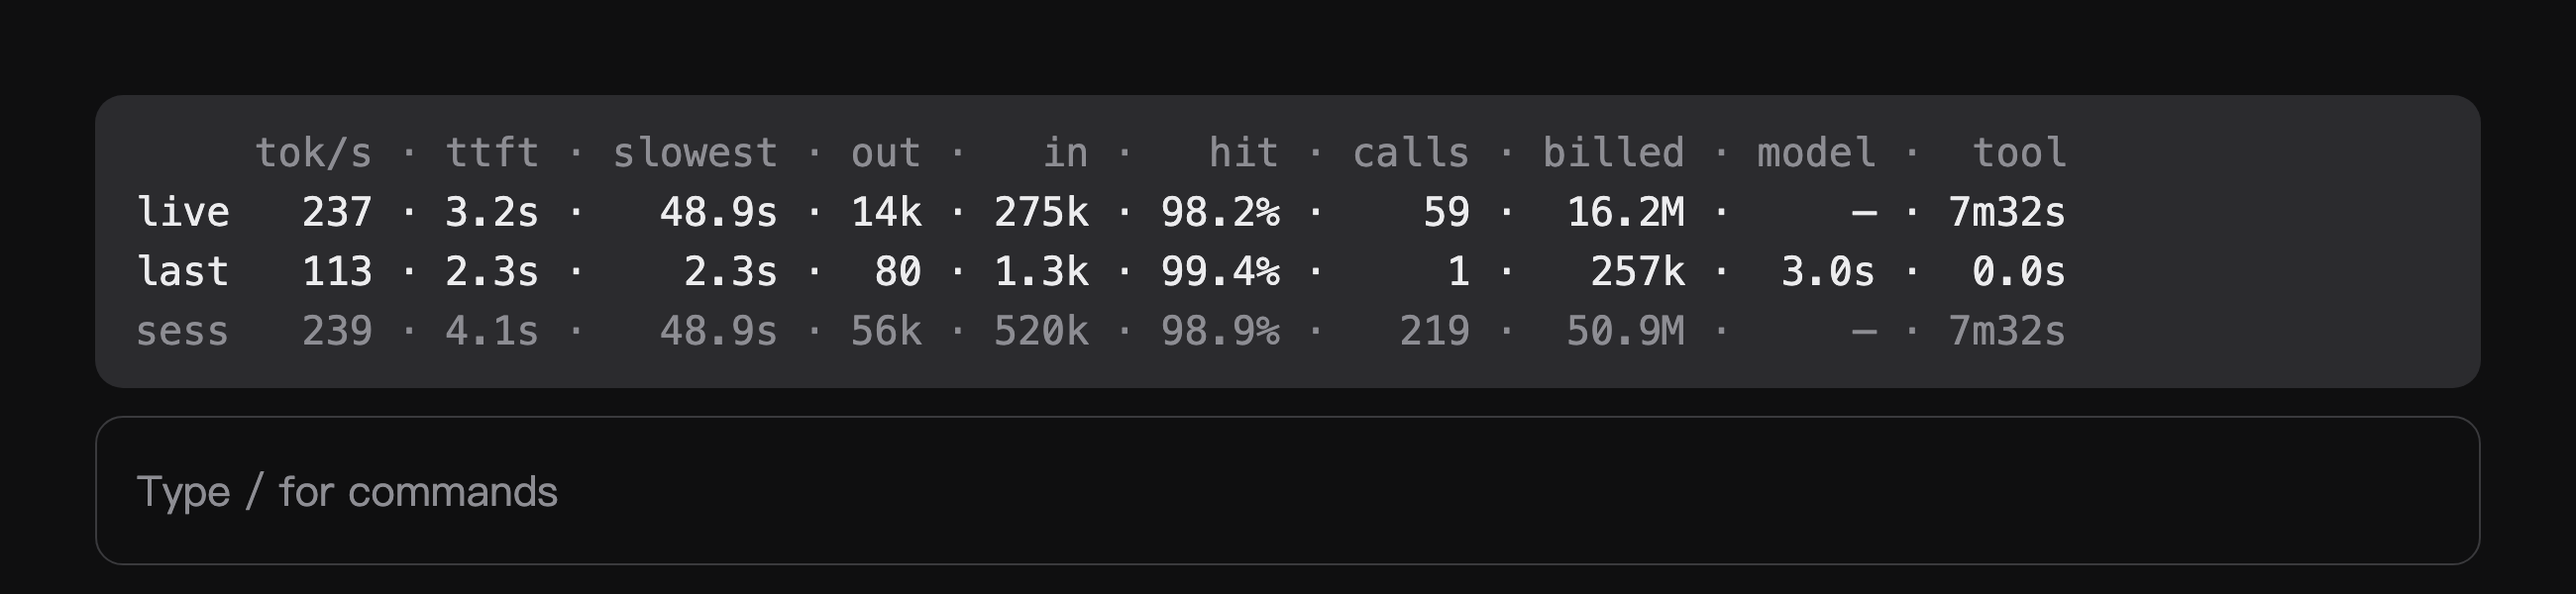
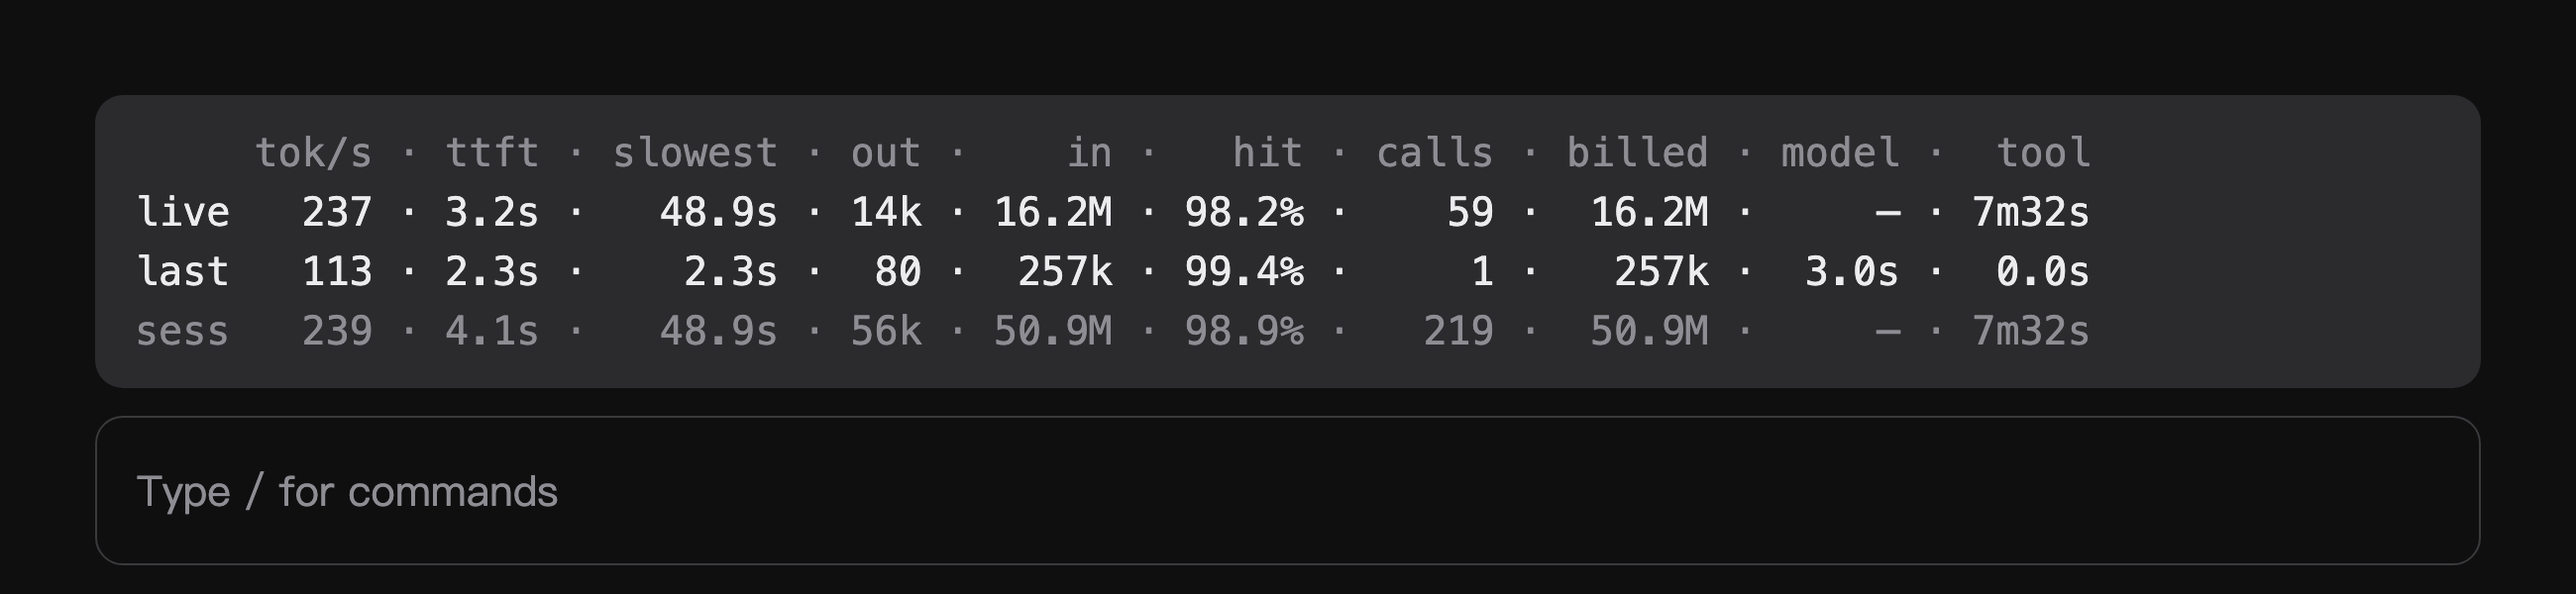
feat: usage format switch, openai convention by default so in + out reconciles with billed

diff --git a/tests/band.test.tsx b/tests/band.test.tsx
@@ -91,18 +91,18 @@ test('live is this prompt, last is the one before, sess is all', { timeoutMs: 15
 
   const one = await rows($)
   expect(one[0]).toBe('tok/s · ttft · slowest · out · in · hit · calls · billed · model · tool')
-  expect(one[1]).toMatch(/^live [\d.]+ · — · — · 400 · 1k · 80\.0% · 1 · 10k · (?:[\d.]+|—) · 0\.0s$/)
+  expect(one[1]).toMatch(/^live [\d.]+ · — · — · 400 · 10k · 80\.0% · 1 · 10k · (?:[\d.]+|—) · 0\.0s$/)
   expect(one[2]).toBe('last ' + '— · '.repeat(9) + '—')
-  expect(one[3]).toMatch(/^sess [\d.]+ · — · — · 400 · 1k · 80\.0% · 1 · 10k · (?:[\d.]+s|—) · 0\.0s$/)
+  expect(one[3]).toMatch(/^sess [\d.]+ · — · — · 400 · 10k · 80\.0% · 1 · 10k · (?:[\d.]+s|—) · 0\.0s$/)
 
   cost = second
   await runStep($, 'p2')
   await finish($, 'p2', second)
 
   const two = await rows($)
-  expect(two[1]).toMatch(/^live [\d.]+ · — · — · 200 · 500 · 80\.0% · 1 · 5\.2k · (?:[\d.]+|—) · 0\.0s$/)
-  expect(two[2]).toMatch(/^last [\d.]+ · — · — · 400 · 1k · 80\.0% · 1 · 10k · (?:[\d.]+|—) · 0\.0s$/)
-  expect(two[3]).toMatch(/^sess [\d.]+ · — · — · 600 · 1\.5k · 80\.0% · 2 · 16k · (?:[\d.]+s|—) · 0\.0s$/)
+  expect(two[1]).toMatch(/^live [\d.]+ · — · — · 200 · 5k · 80\.0% · 1 · 5\.2k · (?:[\d.]+|—) · 0\.0s$/)
+  expect(two[2]).toMatch(/^last [\d.]+ · — · — · 400 · 10k · 80\.0% · 1 · 10k · (?:[\d.]+|—) · 0\.0s$/)
+  expect(two[3]).toMatch(/^sess [\d.]+ · — · — · 600 · 15k · 80\.0% · 2 · 16k · (?:[\d.]+s|—) · 0\.0s$/)
 })
 
 test('a running prompt shows what it knows and a dash for the rest', { timeoutMs: 15000 }, async ($, on) => {
@@ -339,4 +339,30 @@ test('a gateway that counts only at turn.complete still fills the rows', { timeo
   const two = await rows($)
   expect(two[2]).toMatch(/^last [\d.]+ · — · — · 100 · 900 · 0\.0% · 1 · 1k/)
   expect(two[3]).toMatch(/^sess [\d.]+ · — · — · 200 · 1\.8k · 0\.0% · 2 · 2k/)
+})
+
+const runOne = async ($: any, on: any) => {
+  const clock = mock.clock(on, { now: 1000 })
+  const cost = usage({
+    output_tokens: 100,
+    input_tokens: 900,
+    cache_read_input_tokens: 4000,
+    cache_creation_input_tokens: 0,
+  })
+  on('turn.step', call(clock, cost, 1000))
+  on('turn.complete', ($: any, e: any) => ({ text: e.answer, usage: e.usage }))
+  await runStep($, 'p1')
+  await finish($, 'p1', cost)
+  return (await rows($))[1]
+}
+
+test('openai: in is the whole prompt, so in + out = billed', { timeoutMs: 15000 }, async ($, on) => {
+  const live = await runOne($, on)
+  // 900 uncached + 4k cache read = 4.9k prompt, 100 out, billed 5k.
+  expect(live).toMatch(/^live [\d.]+ · — · — · 100 · 4\.9k · 81\.6% · 1 · 5k/)
+})
+
+test('anthropic: in is only the uncached part', { timeoutMs: 15000, options: { usage_format: 'anthropic' } }, async ($, on) => {
+  const live = await runOne($, on)
+  expect(live).toMatch(/^live [\d.]+ · — · — · 100 · 900 · 81\.6% · 1 · 5k/)
 })

diff --git a/hooks/register.tsx b/hooks/register.tsx
@@ -94,7 +94,7 @@ const rowOf = (s: Snap): Row => ({
   ttftMs: meanOf(s).mean,
   ttftMaxMs: meanOf(s).max,
   out: s.out,
-  input: s.input,
+  input: inclusiveInputNow() ? s.input + s.cached + s.written : s.input,
   hit: pct(s.cached, s.input + s.cached + s.written),
   turn: s.turn,
   calls: s.calls,
@@ -144,7 +144,9 @@ const bandOf = (
     ttftMs: ttftSamples > 0 ? ttft / ttftSamples : null,
     ttftMaxMs: ttftMax > 0 ? ttftMax : null,
     out,
-    input,
+    // Under the OpenAI convention `in` is the whole prompt, so it is stated as
+    // `billed - out`: cache reads, cache writes and uncached input together.
+    input: inclusiveInputNow() ? input + cached + written : input,
     hit: pct(cached, input + cached + written),
     turn: prompts,
     calls,
@@ -152,7 +154,6 @@ const bandOf = (
     modelMs,
     toolMs,
   }
-
   let liveRow: Row | null
   if (running) {
     // Until this prompt's first call stops, its prompt counts are unknown.
@@ -167,7 +168,12 @@ const bandOf = (
           : null,
       ttftMaxMs: Math.max(open?.ttftMaxMs ?? 0, extra.ttftMs) || null,
       out: (open?.out ?? 0) + extra.out,
-      input: counted ? (open?.input ?? 0) : null,
+      // The streamed row counts the same way the settled one does.
+      input: counted
+        ? inclusiveInputNow()
+          ? promptTokens
+          : open?.input ?? 0
+        : null,
       hit: counted ? pct(open?.cached ?? 0, promptTokens) : null,
       turn: prompts,
       calls: open?.calls ?? 0,
@@ -187,7 +193,21 @@ const bandOf = (
   }
 }
 
+// How the gateway counts a prompt's tokens. OpenAI-compatible gateways report
+// `input_tokens` as the whole prompt, cache reads included; Anthropic reports
+// only the part that missed the cache. Everything inside sums the exclusive
+// form, so only the displayed `in` differs: under `openai` the cache reads are
+// added back, and `in + out` reconciles with `billed`.
+// Read inside the hooks, not once at register: the render hook must agree with
+// the row builder even when the module is loaded before its options settle.
+let usageFormat: string | undefined
+const inclusiveInputNow = () => usageFormat !== 'anthropic'
+
 export const register: Register = (on, options) => {
+  // The manifest defaults to the OpenAI convention, which is what a
+  // DeepSeek/OpenAI-compatible gateway under an Anthropic shim reports.
+  usageFormat = options.usage_format as string | undefined
+
   on('session.start', async ($, e, next) => {
     seq = -1
     return next(e)

diff --git a/README.md b/README.md
@@ -7,10 +7,10 @@ A small table above the prompt of the Claude Code desktop app. Three rows: the p
 ![The band above the prompt](assets/band.png)
 
 ```
-     tok/s · ttft · slowest · out ·   in ·   hit · calls · billed · model ·  tool
-live   237 · 3.2s ·   48.9s · 14k · 275k · 98.2% ·    59 ·  16.2M ·     — · 7m32s
-last   113 · 2.3s ·    2.3s ·  80 · 1.3k · 99.4% ·     1 ·   257k ·  3.0s ·  0.0s
-sess   239 · 4.1s ·   48.9s · 56k · 520k · 98.9% ·   219 ·  50.9M ·     — · 7m32s
+     tok/s · ttft · slowest · out ·    in ·   hit · calls · billed · model ·  tool
+live   237 · 3.2s ·   48.9s · 14k · 16.2M · 98.2% ·    59 ·  16.2M ·     — · 7m32s
+last   113 · 2.3s ·    2.3s ·  80 ·  257k · 99.4% ·     1 ·   257k ·  3.0s ·  0.0s
+sess   239 · 4.1s ·   48.9s · 56k · 50.9M · 98.9% ·   219 ·  50.9M ·     — · 7m32s
 ```
 
 Every field keeps its column, so you read one column down instead of hunting. Values are right-aligned on the widest in their column, and no row appears or disappears. The rows use the surface's monospaced face with tabular digits; in a proportional face, padded spaces line nothing up.
@@ -29,7 +29,7 @@ Every field keeps its column, so you read one column down instead of hunting. Va
 | `ttft` | **Mean** wait per model call before its first generated chunk: prefill plus whatever the gateway spent queueing it. Divided by the calls that were actually timed, not by every call. |
 | `slowest` | The longest of those waits. One call stuck behind a gateway queue moves this far from `ttft`, which the mean hides; when the two match, the row was one call. |
 | `out` | Generated tokens. |
-| `in` | Prompt tokens that were **not** served from the prompt cache. |
+| `in` | The prompt's tokens, counted as the gateway counts them: under the default `openai` convention this is the whole prompt (cache reads included), so `in + out = billed`; switch `usage format` to `anthropic` to show only the part that missed the cache. |
 | `hit` | Share of the prompt tokens that came from the cache: `cache read ÷ (uncached input + cache read + cache write)`, over the row's calls. Floored to one decimal, so `100.0%` means every prompt token was a read and 99.96% reads `99.9%`. |
 | `turn` | Which prompt of the session this was, counting from 1. Off by default. |
 | `calls` | Model calls the prompt made that returned usage: one prompt is usually several calls (answer → tool → answer), and a call that never got its usage (an interrupt) counts as none. |
@@ -42,6 +42,15 @@ Every field keeps its column, so you read one column down instead of hunting. Va
 A running prompt's own counts (`in`, `hit`, `billed`) stay `—` until its first call stops: the API reports them at a call's stop and nowhere earlier. The other columns move as the reply streams, and the end of the prompt settles the row on the API's numbers.
 
 `live`'s `tok/s` and `out` are the only estimates. The API reports a response's token counts once, in its last chunk, so mid-stream there is nothing to count; the band counts CJK characters as one token and everything else as a quarter, then replaces the estimate with the API's own numbers when the response ends. It is good enough to watch, not to reconcile against a bill.
+
+## Usage format
+
+Gateways disagree on what `input_tokens` means. OpenAI-compatible ones report the whole prompt and put the cache-read part inside it; Anthropic reports only the part that missed the cache. The **usage format** setting picks which:
+
+- `openai` (default) — `in` is the whole prompt, `in + out = billed`.
+- `anthropic` — `in` is only the uncached part; `billed` still equals `in + cached + out`.
+
+The cache hit rate is the same either way: `cache read ÷ the whole prompt`.
 
 ## Columns
 
